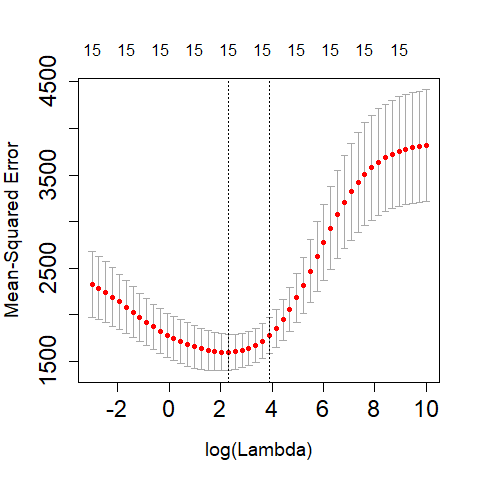
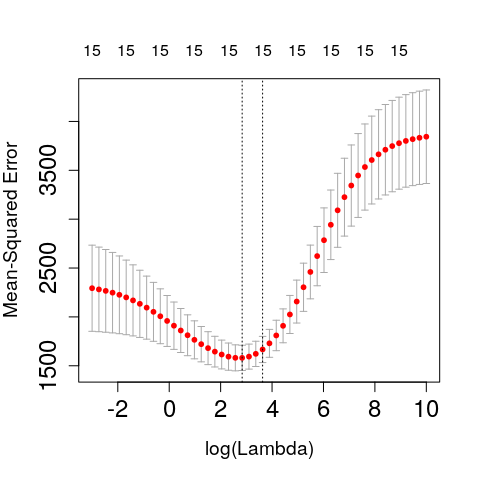
udpate to R 3.6

diff --git a/Lecture5/README.md b/Lecture5/README.md
@@ -1,7 +1,7 @@
 STAT406 - Lecture 5 notes
 ================
 Matias Salibian-Barrera
-2018-09-20
+2019-09-11
 
 #### LICENSE
 
@@ -10,7 +10,7 @@ These notes are released under the "Creative Commons Attribution-ShareAlike 4.0 
 Lecture slides
 --------------
 
-Preliminary lecture slides are [here](STAT406-18-lecture-5.pdf).
+Preliminary lecture slides will be here. <!-- [here](STAT406-19-lecture-5.pdf). -->
 
 Ridge regression
 ----------------
@@ -18,7 +18,7 @@ Ridge regression
 Variable selection methods like stepwise can be highly variable. To illustrate this issue consider the following simple experiment. As in the previous lecture, we apply stepwise on 5 randomly selected folds of the data, and look at the models selected in each of them.
 
 ``` r
-airp <- read.table('../lecture1/rutgers-lib-30861_CSV-1.csv', header=TRUE, sep=',')
+airp <- read.table('../Lecture1/rutgers-lib-30861_CSV-1.csv', header=TRUE, sep=',')
 library(MASS)
 k <- 5
 n <- nrow(airp)
@@ -33,11 +33,11 @@ for(j in 1:k) {
 }
 ```
 
-    ## NONW + JANT + EDUC + SO. + PREC + JULT
-    ## NONW + PREC + SO. + DENS + HOUS + WWDRK
-    ## NONW + EDUC + SO. + PREC + JANT + JULT
-    ## NONW + JANT + SO. + PREC + DENS + JULT
-    ## NONW + EDUC + SO. + JANT + HUMID + POPN
+    ## NONW + EDUC + JANT + OVR65 + SO.
+    ## NONW + EDUC + PREC + SO. + JULT
+    ## NONW + EDUC + JANT + SO. + PREC
+    ## NONW + SO. + JANT + PREC + DENS
+    ## NONW + JANT + EDUC + DENS + POPN + JULT + PREC + OVR65
 
 Although many variables appear in more than one model, only `NONW` and `SO.` are in all of them, and `JANT` and `PREC` in 4 out of the 5. There are also several that appear in only one model (`HOUS`, `WWDRK` and `POPN`). <!-- `EDUC` 3 --> <!-- `JULT` in 3,  --> <!-- `DENS` in 2 --> <!-- and  --> This variability may in turn impact (negatively) the accuracy of the resulting predictions.
 
@@ -46,7 +46,7 @@ A different approach to dealing with potentially correlated explanatory variable
 The first proposal for a regularized / penalized estimator for linear regression models is Ridge Regression. We will use the function `glmnet` in package `glmnet` to compute the Ridge Regression estimator. Note that this function implements a larger family of regularized estimators, and in order to obtain a Ridge Regression estimator we need to set the argument `alpha = 0` of `glmnet()`. <!-- We use Ridge Regression with the air pollution data to obtain a --> <!-- more stable predictor. --> We also specify a range of possible values of the penalty coefficient (below we use a grid of 50 values between exp(-3) and exp(10)).
 
 ``` r
-airp <- read.table('../lecture1/rutgers-lib-30861_CSV-1.csv', header=TRUE, sep=',')
+airp <- read.table('../Lecture1/rutgers-lib-30861_CSV-1.csv', header=TRUE, sep=',')
 library(glmnet)
 # alpha = 0 - Ridge
 # alpha = 1 - LASSO
@@ -96,13 +96,13 @@ for(j in 1:20) {
 (op.la <- op.la / 20)
 ```
 
-    ## [1] 10.39156
+    ## [1] 11.44547
 
 ``` r
 log(op.la)
 ```
 
-    ## [1] 2.340994
+    ## [1] 2.437594
 
 This value is reasonably close to the ones we saw in the plots above.
 
